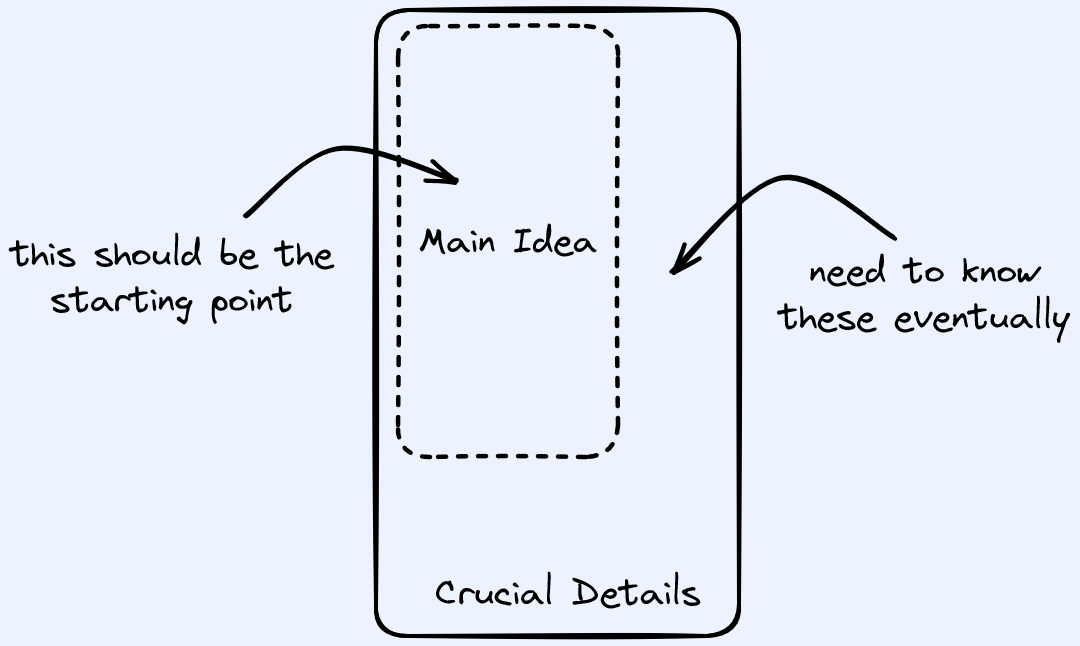
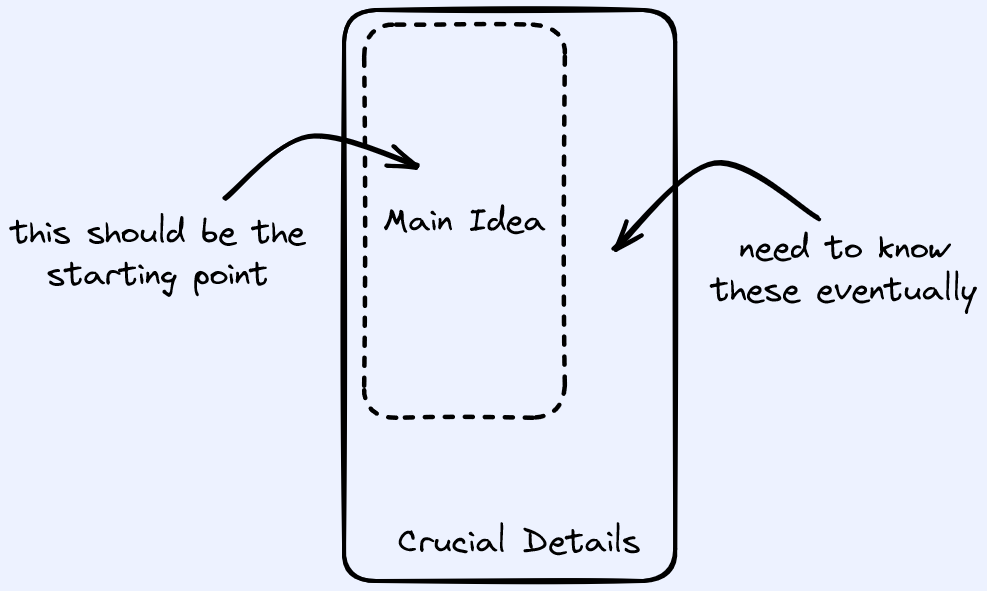
replace svg with images

diff --git a/_algos/2022-12-16-intro.md b/_algos/2022-12-16-intro.md
@@ -42,7 +42,7 @@ topics without first gaining some experience.
 2. At the same time, trying to give newcomers all the information that they need from the 
 getgo is trying to do too much, too fast, at too early of a stage.
 
-{%svg "assets/diagrams/algos/intro/concept.svg" %}{: style="scale: 100%; width:100%; height:100%;"}
+![](/assets/diagrams/algos/intro/concept.png){: style="width:100%; height:100%;"}
 Covering the all of the relevant details is too much. But just covering the main idea
 is ultimately insufficient.
 {: style="color:gray; font-size: 80%; text-align: center;"}
@@ -154,7 +154,8 @@ Let's start with one of my favourite algorithms solving a really common task -- 
 that you were given a sequence of numbers. For convenience I've also draw them as boxes with
 heights for the sake of illustration.
 
-{%svg "assets/diagrams/algos/intro-binary-search-setup.svg" %}{: style="background-color: white; width:100%; height:100%;"}
+![](/assets/diagrams/algos/intro-binary-search-setup.png){: style="width:100%; height:100%; background-color: white;"}
+
 
 And the task is that you'll be given a number, for example, `15`. Now it's probably quite clear
 at first glance that clearly `15` is present in our list. That aside, I want you to focus on 
@@ -164,7 +165,9 @@ How about if I gave you 1000? 10000000?
 
 Consider the following algorithm instead, when we are given a query number like `15`, we 
 start in the middle and compare it against the middle element of the list, like so:
-{%svg "assets/diagrams/algos/intro-binary-search-first-comparison.svg" %}{: style="background-color: white; width:100%; height:100%;"}
+
+![](/assets/diagrams/algos/intro-binary-search-first-comparison.png){: style="width:100%; height:100%; background-color: white;"}
+
 
 Notice how the middle element here is smaller than `15`? Since our list here is sorted, we know that 
 everything to the "left" of the middle element must also be smaller than `15`. So we now know that 
